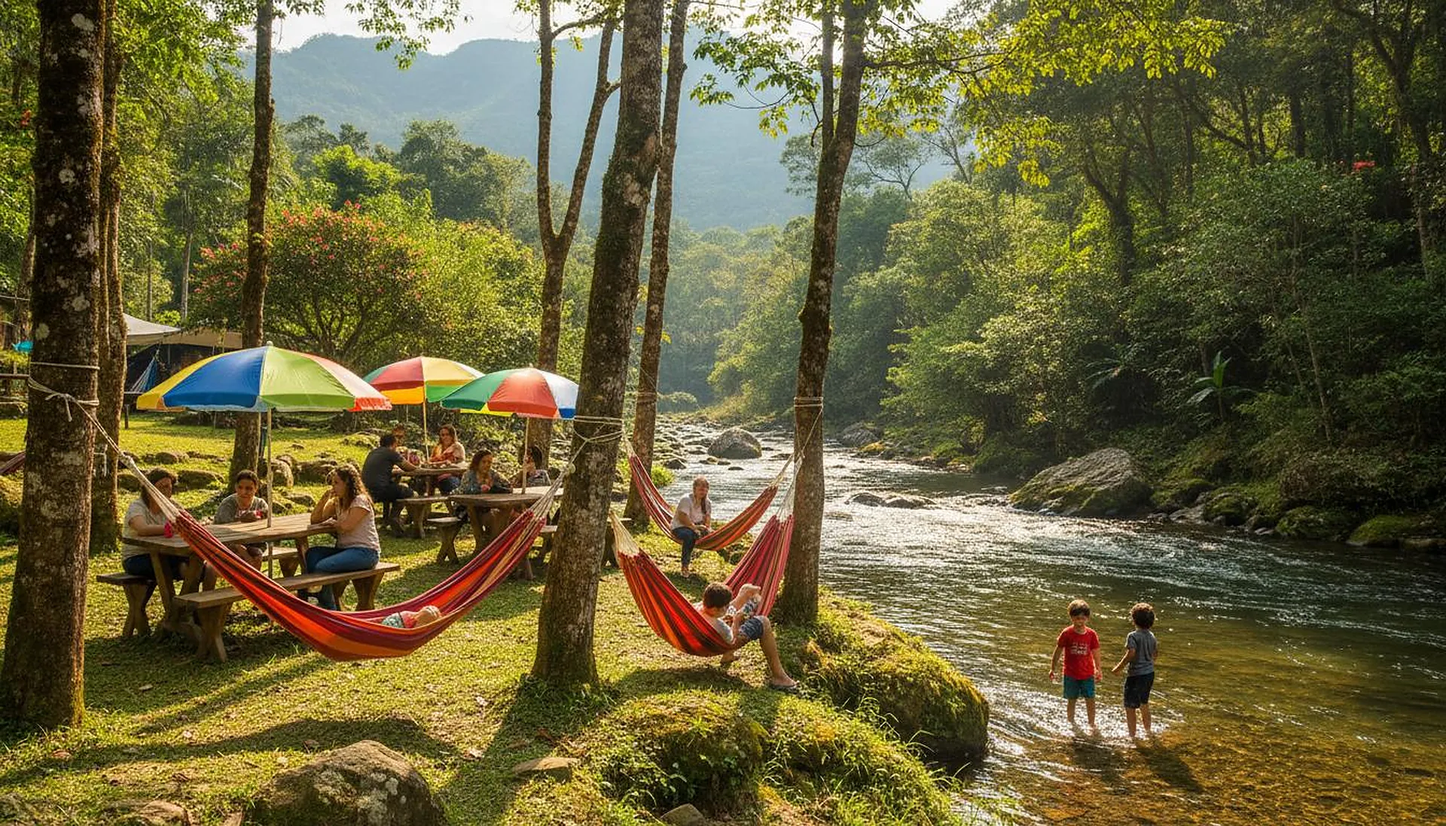
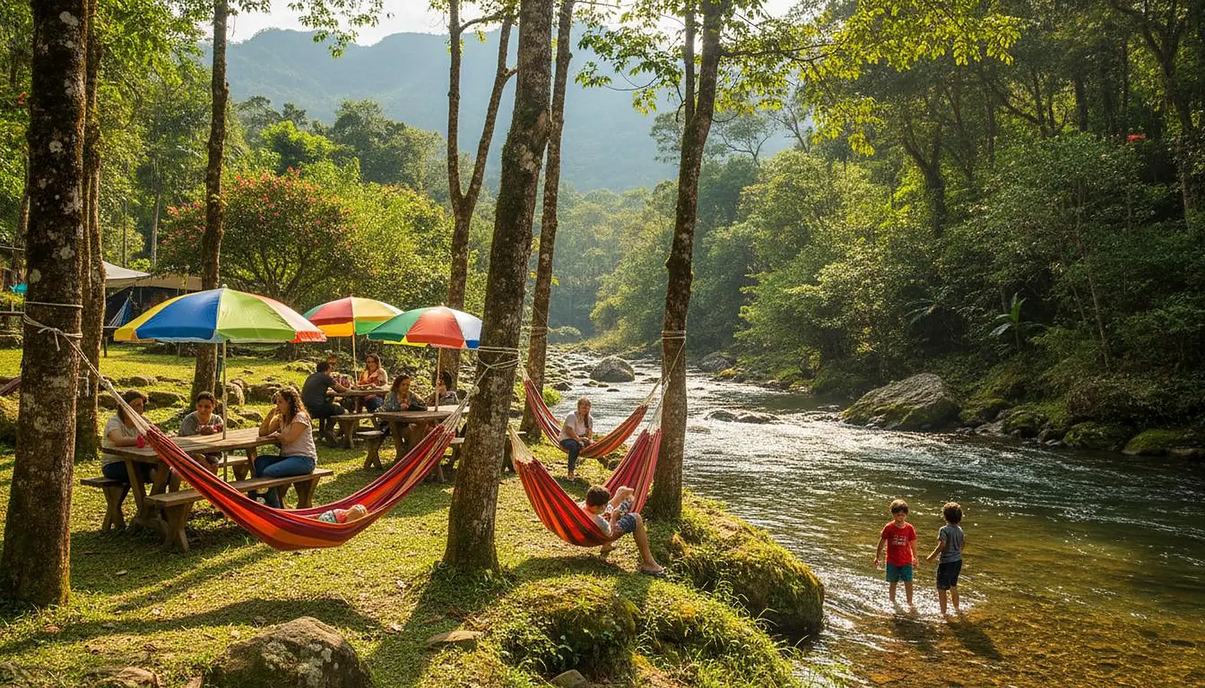
Peso inicial reduzido, SEO básico e rotas a partir de outras cidades
- Carrossel: fotos recomprimidas (1600 px, q74) e versão de 900 px no celular
- Fundo da seção Camping carregado sob demanda; cards e colagem com srcset
- robots.txt, sitemap.xml, página 404, ícone para iPhone e FAQ em dados
  estruturados (schema.org FAQPage)
- "Como chegar": rotas saindo do Rio, Niterói, Nova Friburgo e Macaé no modal

Changed region(s): [[0.625, 0.0919, 0.6562, 0.1225], [0.5938, 0.8578, 0.625, 0.8884]]

diff --git a/index.html b/index.html
@@ -25,7 +25,9 @@
   <link rel="preconnect" href="https://fonts.googleapis.com">
   <link rel="preconnect" href="https://fonts.gstatic.com" crossorigin>
   <link href="https://fonts.googleapis.com/css2?family=Fraunces:ital,opsz,wght@0,9..144,300..700;1,9..144,300..700&family=Manrope:wght@400;500;600;700;800&display=swap" rel="stylesheet">
-  <link rel="preload" as="image" href="img/lg/hero-serra.webp">
+  <link rel="apple-touch-icon" sizes="180x180" href="apple-touch-icon.png">
+  <link rel="preload" as="image" href="img/lg/hero-serra.webp" media="(min-width: 721px)">
+  <link rel="preload" as="image" href="img/sm/hero-serra.webp" media="(max-width: 720px)">
   <link rel="stylesheet" href="css/style.css">
 
   <script type="application/ld+json">
@@ -58,6 +60,22 @@
       { "@type": "LocationFeatureSpecification", "name": "Acesso ao rio", "value": true }
     ],
     "sameAs": ["https://instagram.com/campingcantinhodoce", "https://www.facebook.com/campingcantinhodoce"]
+  }
+  </script>
+  <script type="application/ld+json">
+  {
+    "@context": "https://schema.org",
+    "@type": "FAQPage",
+    "mainEntity": [
+      { "@type": "Question", "name": "Qual é o horário de check-in e check-out?", "acceptedAnswer": { "@type": "Answer", "text": "Na Pousada, check-in a partir das 12h (até 21h) e check-out até 13h para 1 diária ou até 15h para 2 ou mais diárias. Check-out estendido até 18h mediante disponibilidade, com taxa de R$ 40 por pessoa. No Camping Club, check-in das 10h às 21h e check-out até 15h do dia seguinte." } },
+      { "@type": "Question", "name": "Aceitam pets?", "acceptedAnswer": { "@type": "Answer", "text": "Sim, somos pet friendly. Aceitamos cão ou gato de pequeno porte, até 7 kg, sem taxa. Cão sempre na guia; gato na acomodação ou em caixa de transporte. A limpeza do que o animal faz é por conta do tutor. Informe ao reservar." } },
+      { "@type": "Question", "name": "Como funciona a reserva direta?", "acceptedAnswer": { "@type": "Answer", "text": "Na Pousada você reserva pelo sistema online, sem intermediários, com pagamento via PIX ou cartão e confirmação imediata por WhatsApp. Caução de 35% no momento da reserva, com direito a uma remarcação gratuita com 7 dias de antecedência. No Camping Club não há caução: o pagamento é feito no check-in." } },
+      { "@type": "Question", "name": "Crianças pagam?", "acceptedAnswer": { "@type": "Answer", "text": "Na Pousada, crianças até 5 anos pagam R$ 60 por diária. No Camping Club, crianças até 5 anos pagam R$ 35 por diária. Acima de 5 anos, valor de adulto nas duas operações." } },
+      { "@type": "Question", "name": "Aceitam motorhome ou trailer no camping? Tem energia?", "acceptedAnswer": { "@type": "Answer", "text": "Sim, aceitamos barraca, trailer e motorhome nas vagas públicas à beira do Rio Macaé. O camping conta com energia 220V, cozinha compartilhada, banheiros e churrasqueira nova à beira do rio." } },
+      { "@type": "Question", "name": "Posso receber visitas?", "acceptedAnswer": { "@type": "Answer", "text": "Não. A área é exclusiva para hóspedes hospedados: não recebemos visitantes nem trabalhamos com day use, em nenhuma hipótese." } },
+      { "@type": "Question", "name": "Tem cachoeira perto?", "acceptedAnswer": { "@type": "Answer", "text": "Lumiar é conhecida pelas cachoeiras e trilhas da Serra Fluminense, e ficamos a poucos minutos do centrinho, de onde saem os acessos. Dentro da propriedade você tem o Rio Macaé correndo à beira das acomodações." } },
+      { "@type": "Question", "name": "Tem internet e sinal de celular?", "acceptedAnswer": { "@type": "Answer", "text": "Temos Wi-Fi de fibra de 100 Mbps. Como estamos em área rural, um imprevisto pode acontecer. No celular, a Claro é a operadora com melhor sinal na região." } }
+    ]
   }
   </script>
 </head>
@@ -140,10 +158,10 @@
 <!-- ===== Hero ===== -->
 <section class="hero" id="inicio">
   <div class="hero__slides" aria-hidden="true">
-    <div class="hero__slide" data-src="img/lg/hero-serra.webp" data-caption="Chalezinhos e a Pedra Riscada"></div>
-    <div class="hero__slide" data-src="img/lg/hero-rio.webp" data-caption="Rio Macaé"></div>
-    <div class="hero__slide" data-src="img/lg/hero-trailer.webp" data-caption="Trailer Estrela e o lago"></div>
-    <div class="hero__slide" data-src="img/lg/chz-rede.webp" data-caption="Chalezinho A-frame"></div>
+    <div class="hero__slide" data-src="img/lg/hero-serra.webp" data-src-sm="img/sm/hero-serra.webp" data-caption="Chalezinhos e a Pedra Riscada"></div>
+    <div class="hero__slide" data-src="img/lg/hero-rio.webp" data-src-sm="img/sm/hero-rio.webp" data-caption="Rio Macaé"></div>
+    <div class="hero__slide" data-src="img/lg/hero-trailer.webp" data-src-sm="img/sm/hero-trailer.webp" data-caption="Trailer Estrela e o lago"></div>
+    <div class="hero__slide" data-src="img/lg/chz-rede.webp" data-src-sm="img/sm/chz-rede.webp" data-caption="Chalezinho A-frame"></div>
   </div>
   <div class="hero__overlay"></div>
 
@@ -191,7 +209,7 @@
   <div class="container about__grid">
     <div class="collage reveal">
       <svg class="collage__leaf" viewBox="0 0 24 24" aria-hidden="true"><use href="#i-leaf"/></svg>
-      <img class="collage__main" src="img/lg/chz-rede.webp" alt="Chalezinho A-frame com rede, montanhas ao fundo" loading="lazy" width="1600" height="1068">
+      <img class="collage__main" src="img/sm/chz-rede.webp" srcset="img/sm/chz-rede.webp 900w, img/lg/chz-rede.webp 1600w" sizes="(max-width: 900px) 90vw, 520px" alt="Chalezinho A-frame com rede, montanhas ao fundo" loading="lazy" width="900" height="601">
       <img class="collage__b" src="img/sm/camp-barraca-rio.webp" alt="Barraca montada à beira do Rio Macaé" loading="lazy" width="405" height="900">
       <img class="collage__c" src="img/sm/tr-gansos.webp" alt="Gansos passeando no gramado" loading="lazy" width="900" height="601">
       <div class="collage__stamp" aria-hidden="true">
@@ -236,7 +254,7 @@
     </div>
     <div class="duo">
       <a class="duo__card reveal" href="#acomodacoes">
-        <img src="img/lg/chz-fachada.webp" alt="Chalezinho A-frame de madeira entre as árvores" loading="lazy" width="1068" height="1600">
+        <img src="img/sm/chz-fachada.webp" srcset="img/sm/chz-fachada.webp 600w, img/lg/chz-fachada.webp 1068w" sizes="(max-width: 860px) 100vw, 590px" alt="Chalezinho A-frame de madeira entre as árvores" loading="lazy" width="600" height="900">
         <div class="duo__body">
           <span class="duo__tag">Pousada</span>
           <h3>Chalés, suíte e trailer</h3>
@@ -246,7 +264,7 @@
         </div>
       </a>
       <a class="duo__card reveal" data-delay="1" href="#camping">
-        <img src="img/lg/camp-barraca-ipe.webp" alt="Barraca cinza montada sob um ipê, com o rio ao fundo" loading="lazy" width="720" height="1600">
+        <img src="img/sm/camp-barraca-ipe.webp" srcset="img/sm/camp-barraca-ipe.webp 405w, img/lg/camp-barraca-ipe.webp 720w" sizes="(max-width: 860px) 100vw, 590px" alt="Barraca cinza montada sob um ipê, com o rio ao fundo" loading="lazy" width="405" height="900">
         <div class="duo__body">
           <span class="duo__tag">Camping Club</span>
           <h3>Camping de verdade, à beira do rio</h3>
@@ -279,7 +297,7 @@
 
 <!-- ===== Camping Club ===== -->
 <section class="section camping" id="camping">
-  <div class="camping__bg" aria-hidden="true"></div>
+  <div class="camping__bg" data-bg="img/lg/camp-barraca-verde-rio.webp" aria-hidden="true"></div>
   <div class="container camping__grid">
     <div class="reveal">
       <span class="eyebrow" style="color:var(--gold-2)">Camping Club · Desde 2012</span>
@@ -548,7 +566,7 @@
 
     <div class="guide-hero">
       <a class="guide-cover reveal" href="guia.html">
-        <img src="img/lg/tr-rede.webp" alt="Rede na área coberta do Trailer Estrela" loading="lazy">
+        <img src="img/sm/tr-rede.webp" srcset="img/sm/tr-rede.webp 900w, img/lg/tr-rede.webp 1600w" sizes="(max-width: 900px) 100vw, 560px" alt="Rede na área coberta do Trailer Estrela" loading="lazy" width="900" height="601">
         <div class="guide-cover__body">
           <span class="guide-cover__tag">Guia completo · 10 capítulos</span>
           <h3>Respire fundo. <em>Você chegou.</em></h3>
@@ -628,6 +646,15 @@
         <div class="btn-row">
           <a class="btn btn--gold" href="https://maps.app.goo.gl/2iNcxQPpmdWiQRBD8" target="_blank" rel="noopener"><svg aria-hidden="true"><use href="#i-pin"/></svg> Abrir no Google Maps</a>
           <a class="btn btn--ghost" href="guia.html">Guia do hóspede</a>
+        </div>
+        <div class="routes">
+          <small>Veja a rota saindo da sua cidade</small>
+          <div class="btn-row">
+            <button type="button" class="btn btn--ghost btn--sm" data-dest="Cantinho Doce" data-from="Rio de Janeiro, RJ" data-name="Rio de Janeiro"><svg aria-hidden="true"><use href="#i-car"/></svg> do Rio</button>
+            <button type="button" class="btn btn--ghost btn--sm" data-dest="Cantinho Doce" data-from="Niterói, RJ" data-name="Niterói"><svg aria-hidden="true"><use href="#i-car"/></svg> de Niterói</button>
+            <button type="button" class="btn btn--ghost btn--sm" data-dest="Cantinho Doce" data-from="Nova Friburgo, RJ" data-name="Nova Friburgo"><svg aria-hidden="true"><use href="#i-car"/></svg> de Friburgo</button>
+            <button type="button" class="btn btn--ghost btn--sm" data-dest="Cantinho Doce" data-from="Macaé, RJ" data-name="Macaé"><svg aria-hidden="true"><use href="#i-car"/></svg> de Macaé</button>
+          </div>
         </div>
       </div>
       <div class="map reveal" data-delay="1">

diff --git a/404.html b/404.html
@@ -1,0 +1,36 @@
+<!DOCTYPE html>
+<html lang="pt-BR">
+<head>
+  <meta charset="UTF-8">
+  <meta name="viewport" content="width=device-width, initial-scale=1.0">
+  <title>Página não encontrada · Cantinho Doce</title>
+  <meta name="robots" content="noindex">
+  <link rel="icon" type="image/svg+xml" href="/camping-cantinho-doce/favicon.svg">
+  <link href="https://fonts.googleapis.com/css2?family=Fraunces:ital,opsz,wght@0,9..144,300..700;1,9..144,300..700&family=Manrope:wght@400;600;700;800&display=swap" rel="stylesheet">
+  <link rel="stylesheet" href="/camping-cantinho-doce/css/style.css">
+  <style>
+    .nf { min-height: 100svh; display: grid; place-items: center; text-align: center; color: var(--cream); position: relative; isolation: isolate; overflow: hidden; padding: 40px 20px; }
+    .nf__bg { position: absolute; inset: 0; z-index: -2; background: url('/camping-cantinho-doce/img/lg/hero-rio.webp') center/cover; }
+    .nf__bg::after { content: ""; position: absolute; inset: 0; background: rgba(11,26,18,.72); }
+    .nf h1 { font-size: clamp(2.4rem, 7vw, 5rem); margin: 0 0 12px; }
+    .nf h1 em { font-style: italic; font-weight: 300; color: var(--gold-2); }
+    .nf p { color: var(--sage); max-width: 46ch; margin: 0 auto 28px; font-size: 1.1rem; }
+    .nf .code { font-family: var(--font-display); font-size: 1rem; letter-spacing: .3em; color: var(--gold-2); margin-bottom: 16px; }
+  </style>
+</head>
+<body>
+  <main class="nf">
+    <div class="nf__bg" aria-hidden="true"></div>
+    <div>
+      <div class="code">ERRO 404</div>
+      <h1>Esse caminho <em>não leva ao rio.</em></h1>
+      <p>A página que você procura não existe ou mudou de lugar. Mas o Cantinho Doce continua no mesmo cantinho de sempre, em Lumiar.</p>
+      <div class="btn-row" style="justify-content:center">
+        <a class="btn btn--gold" href="/camping-cantinho-doce/">Voltar ao início</a>
+        <a class="btn btn--ghost" href="/camping-cantinho-doce/guia.html">Guia do hóspede</a>
+        <a class="btn btn--ghost" href="https://wa.me/5522999734646" target="_blank" rel="noopener">WhatsApp</a>
+      </div>
+    </div>
+  </main>
+</body>
+</html>

diff --git a/css/style.css b/css/style.css
@@ -358,8 +358,12 @@ body.menu-open .nav-toggle span::after { top: 0; transform: rotate(-45deg); }
 
 /* ---------- Camping ---------- */
 .camping { position: relative; color: var(--cream); overflow: hidden; isolation: isolate; }
-.camping__bg { position: absolute; inset: 0; z-index: -2; background: url("../img/lg/camp-barraca-verde-rio.webp") center/cover fixed; }
+.camping__bg { position: absolute; inset: 0; z-index: -2; background: var(--forest-900) center/cover fixed; }
 @media (max-width: 1024px) { .camping__bg { background-attachment: scroll; } }
+.routes { margin-top: 22px; padding-top: 18px; border-top: 1px solid rgba(255,255,255,.12); }
+.routes small { display: block; font-size: 11.5px; letter-spacing: .14em; text-transform: uppercase; color: var(--sage); font-weight: 700; margin-bottom: 10px; }
+.routes .btn-row { gap: 8px; }
+.routes .btn { padding: 9px 14px; font-size: 13px; }
 .camping__bg::after { content: ""; position: absolute; inset: 0; background: linear-gradient(90deg, rgba(11,26,18,.96) 0%, rgba(11,26,18,.9) 45%, rgba(11,26,18,.66) 100%); }
 .camping__grid { display: grid; grid-template-columns: 1.1fr .9fr; gap: clamp(36px, 6vw, 80px); align-items: center; }
 .price-cards { display: grid; grid-template-columns: 1fr 1fr; gap: 14px; margin: 26px 0; }

diff --git a/js/main.js b/js/main.js
@@ -39,6 +39,22 @@
   const caption = $("#heroCaption");
   const INTERVAL = 5500;
   let current = 0, timer = null, dots = [];
+  // em telas pequenas usa a versão de 900 px das fotos do carrossel
+  const SMALL = window.matchMedia("(max-width: 720px)").matches;
+  slides.forEach((s) => { if (SMALL && s.dataset.srcSm) s.dataset.src = s.dataset.srcSm; });
+
+  /* fundos carregados sob demanda (data-bg) */
+  const bgs = $$("[data-bg]");
+  if (bgs.length) {
+    const bgio = new IntersectionObserver((entries) => {
+      entries.forEach((e) => {
+        if (!e.isIntersecting) return;
+        e.target.style.backgroundImage = "url('" + e.target.dataset.bg + "')";
+        bgio.unobserve(e.target);
+      });
+    }, { rootMargin: "600px 0px" });
+    bgs.forEach((el) => bgio.observe(el));
+  }
 
   function go(i) {
     slides[current].classList.remove("is-active");

diff --git a/guia.html b/guia.html
@@ -7,6 +7,7 @@
   <meta name="description" content="Guia do hóspede do Cantinho Doce, em Lumiar: horários de check-in e check-out, o que trazer, toalhas, TV, regras de convivência, onde comer, cachoeiras, conveniências e política de cancelamento.">
   <meta name="theme-color" content="#10261a">
   <link rel="icon" type="image/svg+xml" href="favicon.svg">
+  <link rel="apple-touch-icon" sizes="180x180" href="apple-touch-icon.png">
   <link rel="canonical" href="https://igorstutz.github.io/camping-cantinho-doce/guia.html">
   <meta property="og:type" content="article">
   <meta property="og:locale" content="pt_BR">
